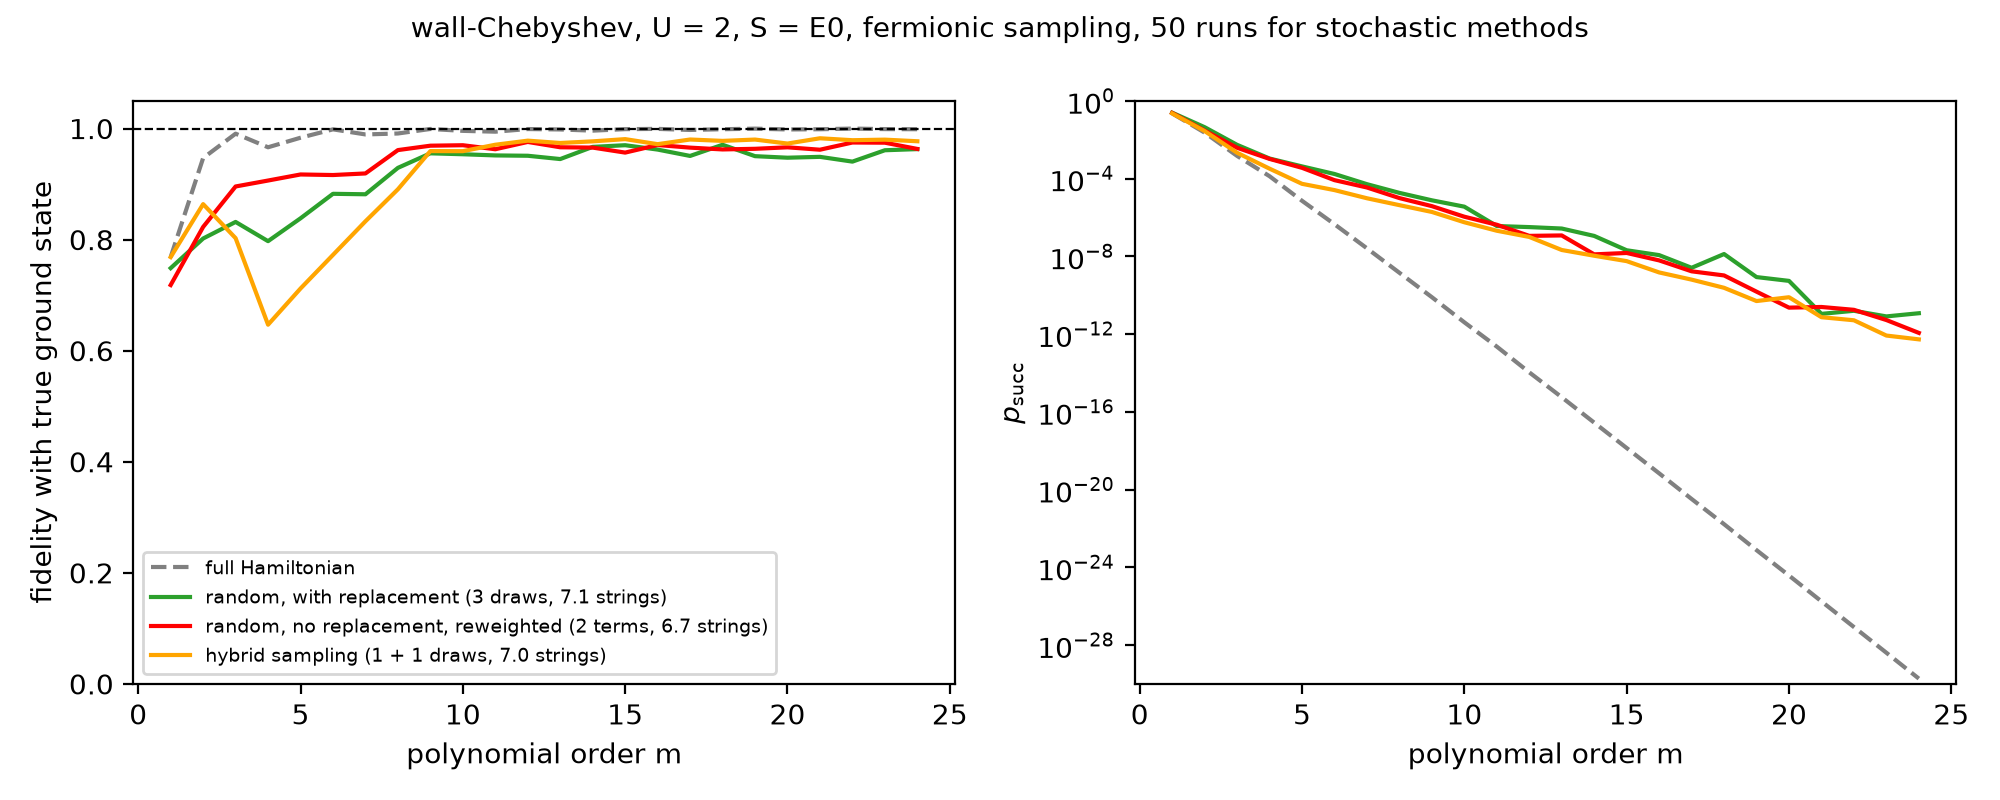
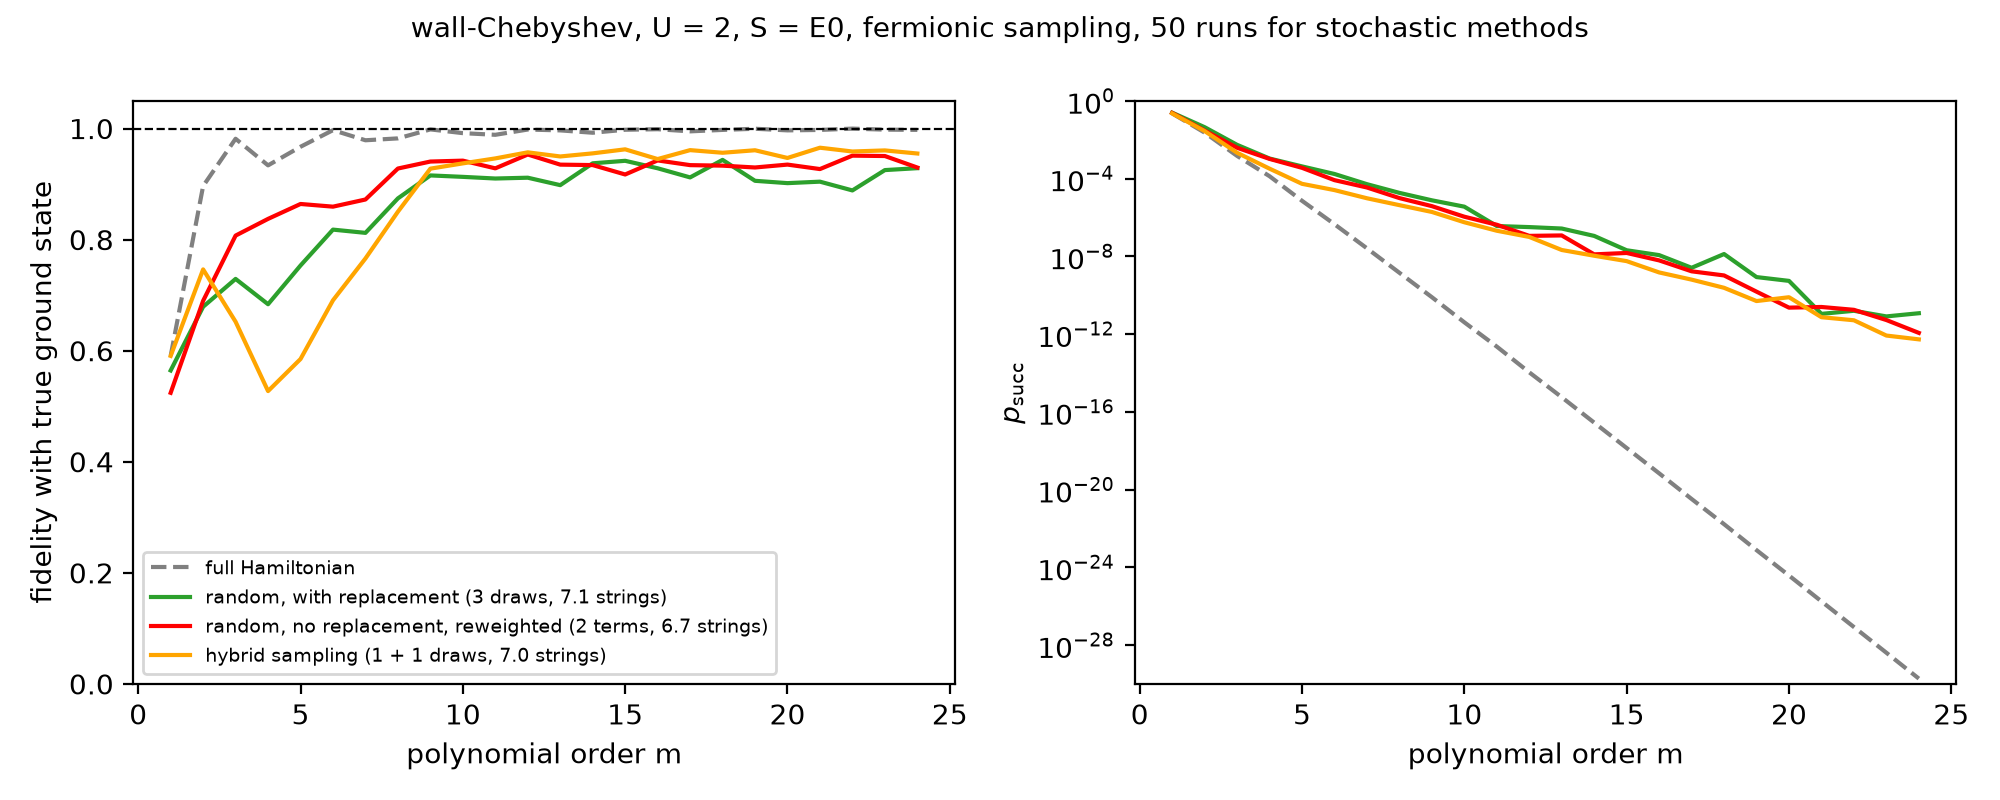
Calculating fidelity as square of overlap

Changed region(s): [[0.062, 0.1562, 0.465, 0.4688], [0.124, 0.4375, 0.155, 0.5]]

diff --git a/SuccessProbability.py b/SuccessProbability.py
@@ -33,7 +33,7 @@ def projection_outcome(E, c, w):
     Apply weights w_i = f(E_i) to a state with overlaps c_i on eigenstate
     returns p: squared norm of psi, success probability
             energy: averaged energy of normalised state
-            fidelity: overlap of the state after projector has acted on it with the true ground state
+            fidelity: squared overlap of the state after projector has acted on it with the true ground state
         
     The weights of the projectors are run through this function and this returns the success probability
     '''
@@ -41,7 +41,7 @@ def projection_outcome(E, c, w):
     p = prob.sum()
     if not np.isfinite(p) or p < 1e-300:
         return dict(p=p, energy=np.nan, fidelity=np.nan)
-    return dict(p=p, energy=float((prob * E).sum() / p), fidelity=float(np.sqrt(prob[0] / p)))
+    return dict(p=p, energy=float((prob * E).sum() / p), fidelity=float(prob[0] / p))
 
 def lcu_alpha(qubit_H, scale=1.0, shift=0.0):
     '''

diff --git a/NewSequenceofCode.py b/NewSequenceofCode.py
@@ -46,7 +46,7 @@ def evaulate(sampled_H, subspace, use_exact_S, m, factors_per_sample=1, mapper=N
 
     p = np.vdot(psi, psi).real
 
-    return dict(p=p, energy=np.vdot(psi, H_full @ psi).real / p, fidelity=abs(np.vdot(true_ground, psi)) / np.sqrt(p),
+    return dict(p=p, energy=np.vdot(psi, H_full @ psi).real / p, fidelity=abs(np.vdot(true_ground, psi))**2 / p,
                 alphas=alphas)
 
 def average_over_runs_new(sampled_H, subspace, use_exact_S, m, factors_per_sample, n_runs=100, mapper=None):

diff --git a/DeterministicSampling.py b/DeterministicSampling.py
@@ -138,7 +138,7 @@ def evaluate(sampled_op, subspace, ground_state_energy, m=10, deg=1000, epsilon=
         psi_out = V @ (w * c)
         p = np.vdot(psi_out, psi_out).real
         out[name] = (dict(p=p, energy=np.vdot(psi_out, H_full @ psi_out).real / p,
-                        fidelity=abs(np.vdot(ground, psi_out)) / np.sqrt(p))
+                        fidelity=abs(np.vdot(ground, psi_out))**2 / p)
                     if p > 1e-300 else dict(p=p, energy=np.nan, fidelity=np.nan))
     return out
 

diff --git a/ApplyingProjector.py b/ApplyingProjector.py
@@ -54,7 +54,7 @@ def apply_projector(subspace, filter_E, psi0):
         return np.nan, np.nan
     phi = phi / norm
     energy = phi @ subspace.H @ phi
-    fidelity = abs(subspace.V[:, 0] @ phi)
+    fidelity = abs(subspace.V[:, 0] @ phi)**2
     return energy, fidelity
 
 def evaluate_orders(subspace, ground_state_energy, max_order=150, beta=1.1):
